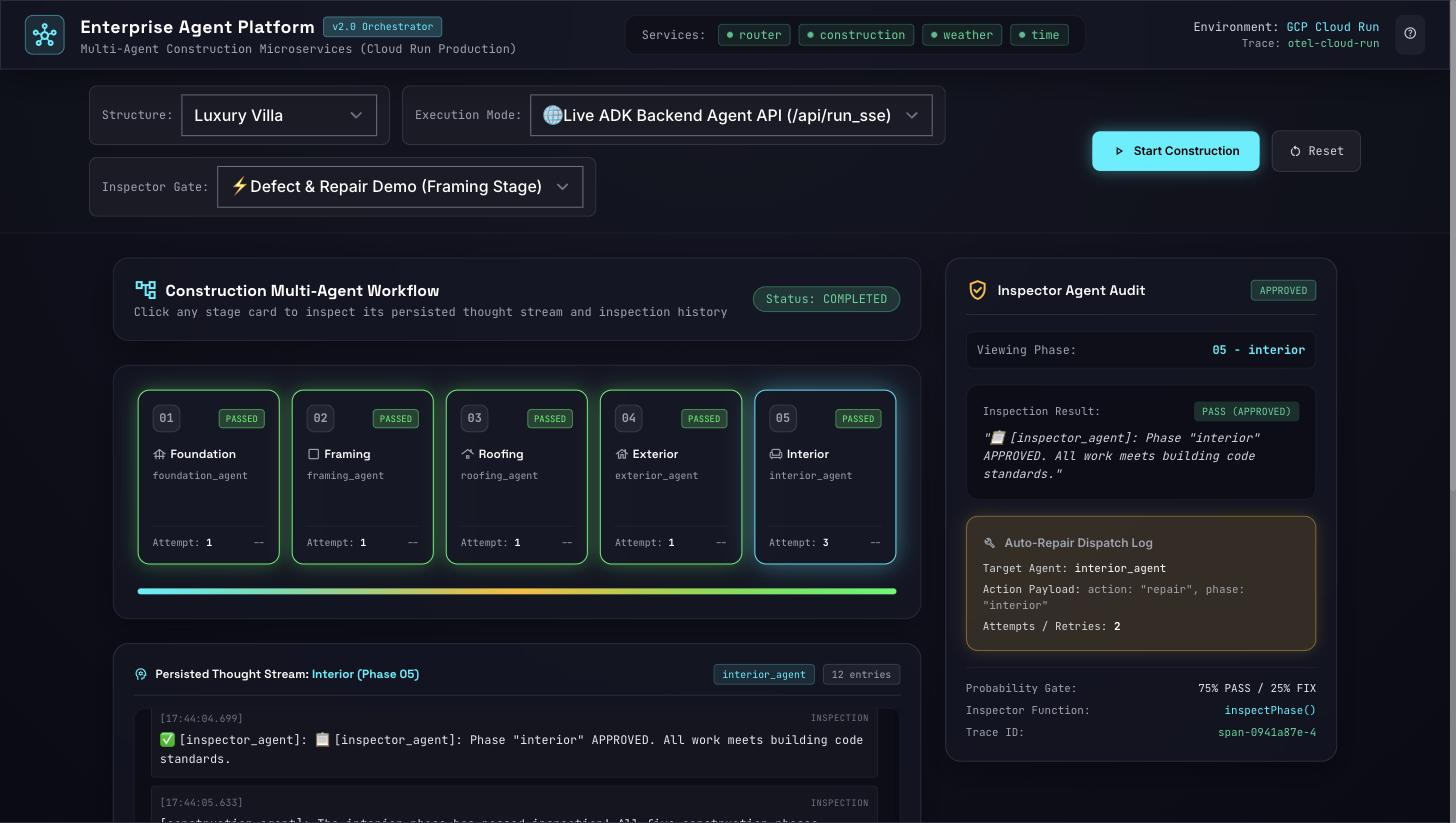
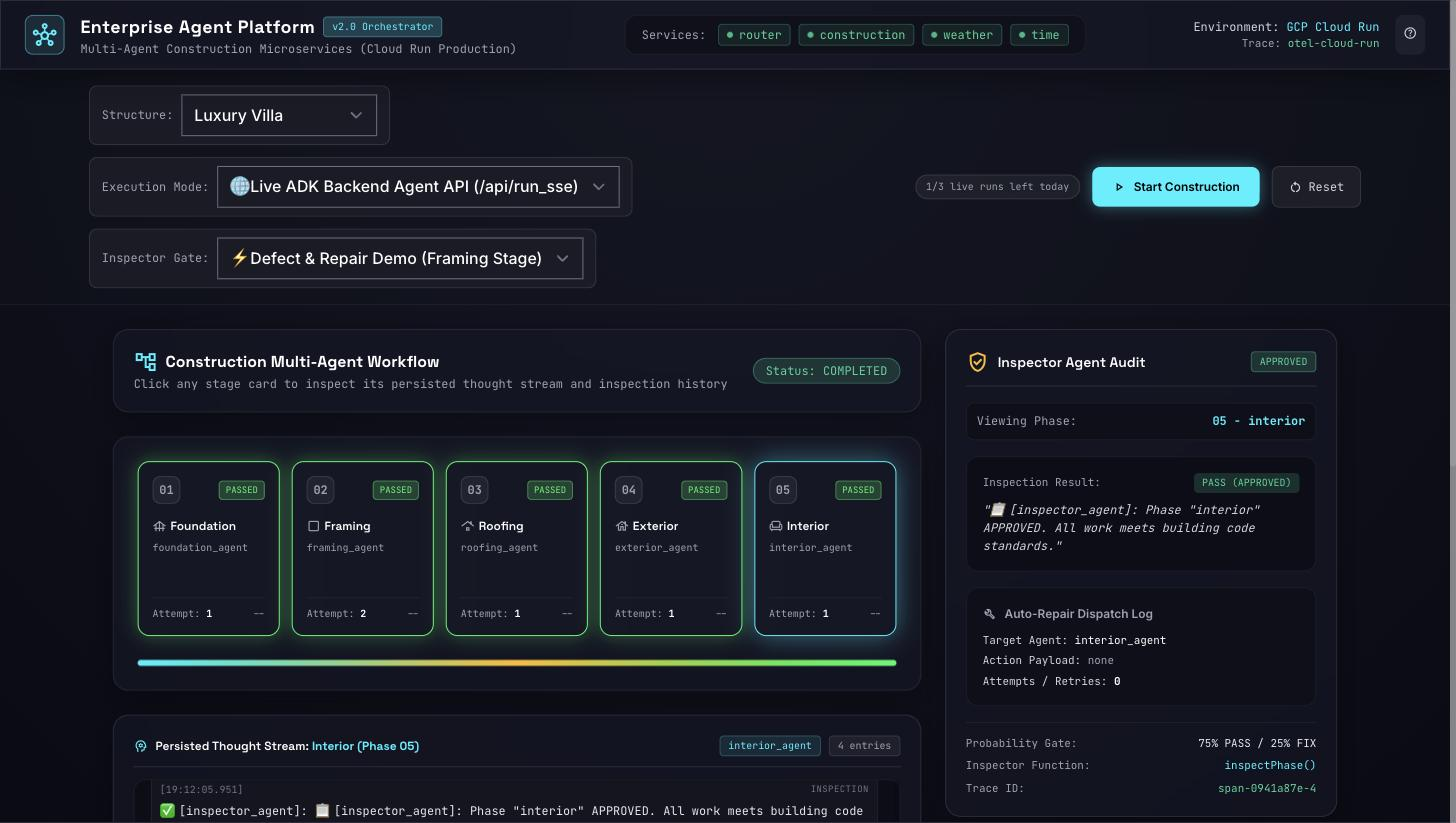
docs: add live demo link at adk.jking.ai
Custom domain is live behind Cloudflare with origin auth and the per-visitor
quota enforced. Refresh the screenshot to show the deployed demo.

Claude-Session: https://claude.ai/code/session_01VvepwFBUfRpDGQbbb6wBgK

diff --git a/README.md b/README.md
@@ -4,6 +4,8 @@ A reference implementation of a multi-agent system built with the **[Google Agen
 
 The demo scenario is a construction workflow: an orchestrator drives five build phases, a building inspector agent audits each one, and failed inspections trigger a repair-and-re-inspect loop — all decided by the model at runtime, not scripted.
 
+**▶ Live demo: [adk.jking.ai](https://adk.jking.ai)** — pick *Live ADK Backend Agent API* and press Start. Live runs are capped at 3/day per visitor since each one calls Gemini; the simulated pipeline is unlimited.
+
 ![Command Center — a completed live run, showing the interior phase after two inspector-driven repair cycles](docs/command-center.jpg)
 
 *A real Gemini-backed run. The interior phase failed inspection twice; each failure dispatched a repair and a re-inspection before passing.*
